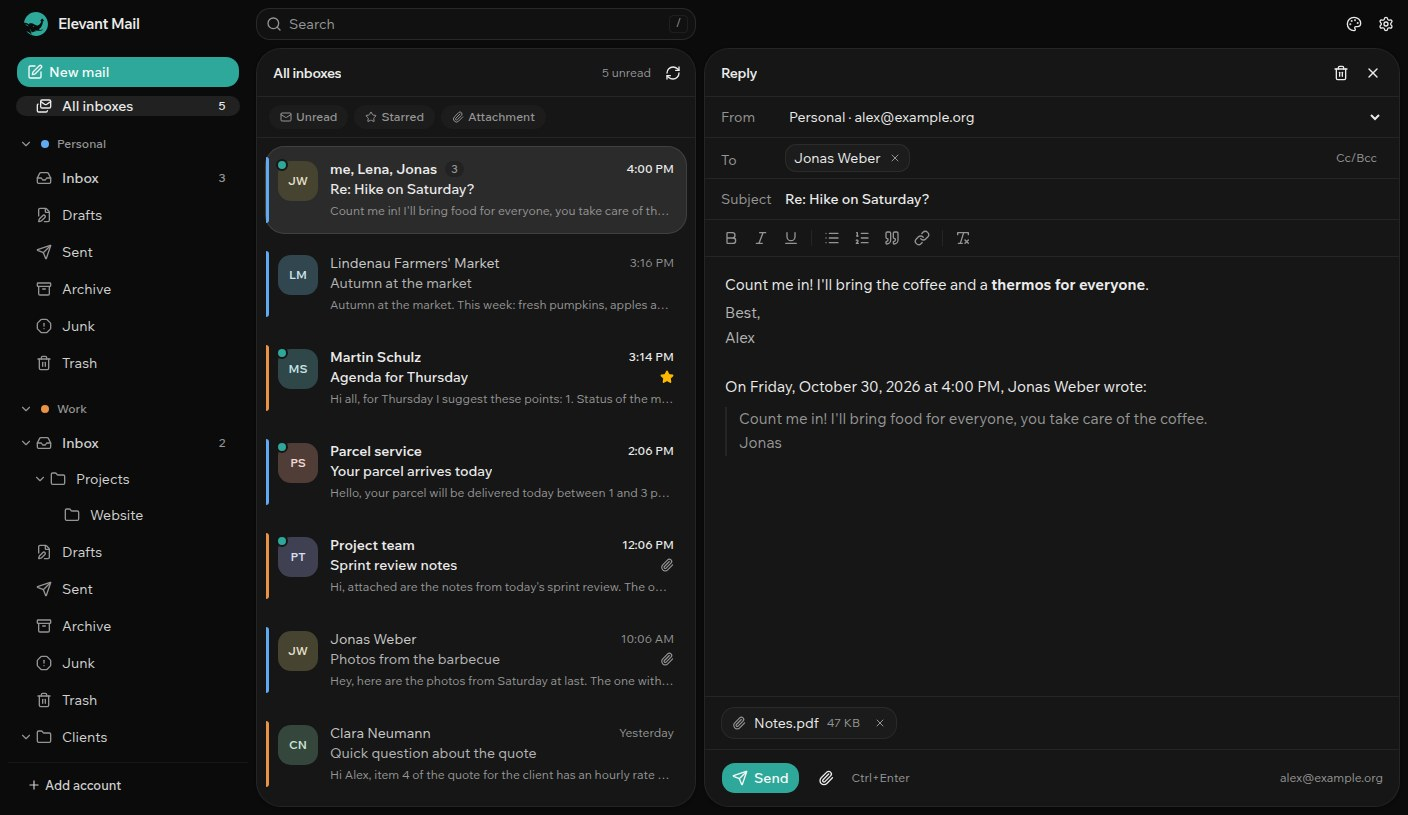
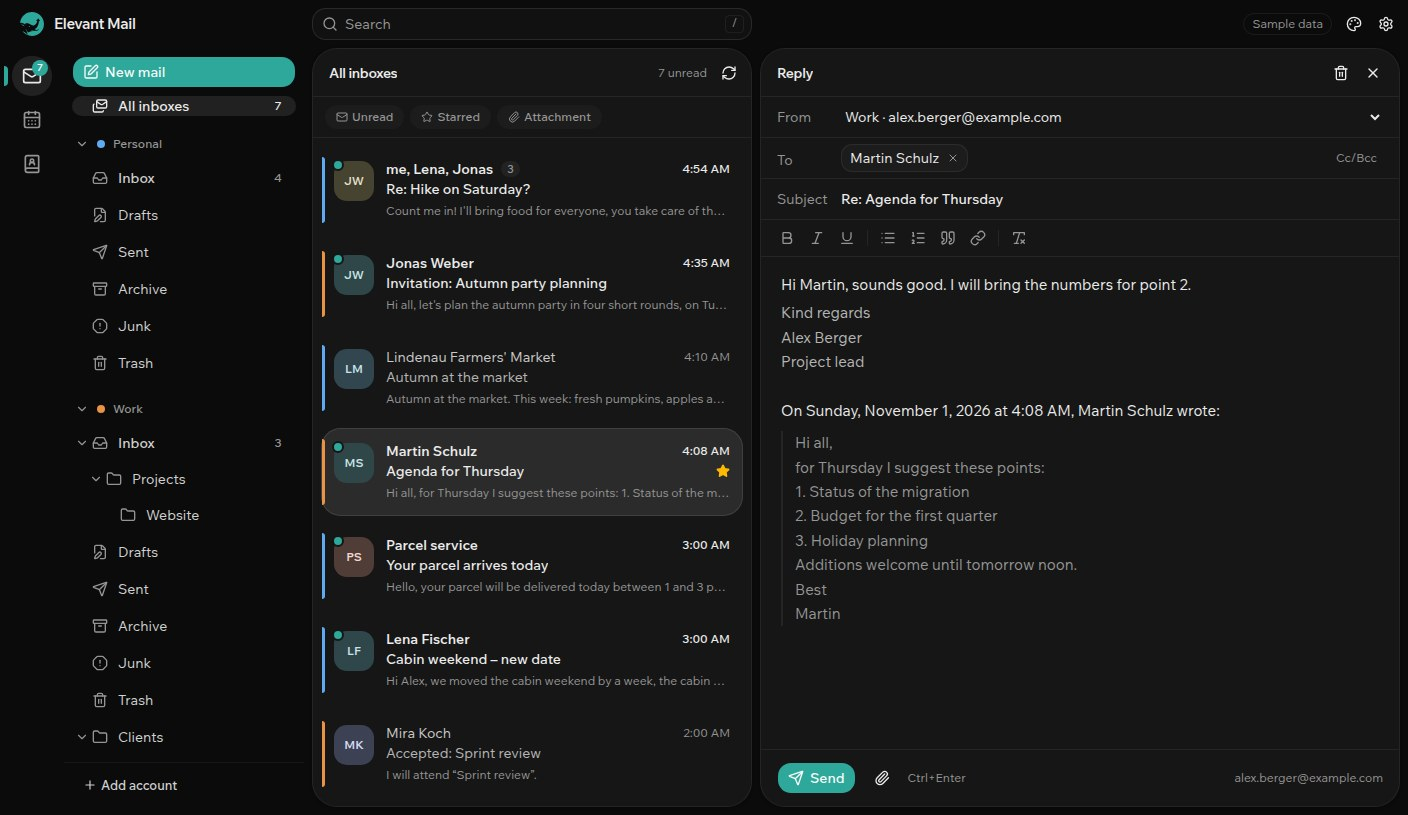
Update the README and screenshots for 0.6
The README describes calendar and contacts, the tray, moving accounts,
dragging mail and the MCP server for AI agents with its permissions,
with a section on connecting an agent; the roadmap lists 0.5 and 0.6
and names the optional AI help as next. New screenshots show the
invitation card, the calendar's week view and the left area bar.

diff --git a/README.md b/README.md
@@ -4,19 +4,20 @@
 [![License: GPL-3.0-or-later](https://img.shields.io/badge/license-GPL--3.0--or--later-blue)](LICENSE)
 
 A fast, private mail client for Linux and Windows. All your IMAP accounts in one window, with a
-unified inbox and a calm interface, for reading and writing mail.
+unified inbox and a calm interface, for reading and writing mail, with your calendars and
+contacts beside it.
 
 - **Free and open source.** No paywall, no subscription, no account with us.
 - **Private.** No cloud, no telemetry. The app talks to your mail servers and nothing else.
 - **Local first.** Your mail is cached on your computer, opens instantly and stays readable
   offline.
 
-![Elevant Mail with a conversation in the unified inbox of two accounts](docs/screenshots/main.jpg)
+![Elevant Mail with an invitation open in the unified inbox of two accounts](docs/screenshots/main.jpg)
 
-> **Status: v0.4, reads and sends.** Elevant Mail reads, searches, organizes and writes mail for
-> several accounts: conversations, filters, archiving with undo, replies and forwards with
-> formatting, drafts, attachments and signatures. It is early software: please keep another mail
-> client around for now, and
+> **Status: v0.6, mail, calendar and contacts.** Elevant Mail reads, searches, organizes and
+> writes mail for several accounts, and keeps your calendars and address books in step over
+> CalDAV, CardDAV and Microsoft 365. It is early software: please keep another mail client around
+> for now, and
 > [tell us](https://github.com/Elevant-Development/elevant-mail/issues) what breaks.
 
 ## Features
@@ -51,13 +52,32 @@ unified inbox and a calm interface, for reading and writing mail.
 - **Attachments:** open or save them. Files that could run programs are only saved, never opened
   directly.
 - **Read and starred** state syncs back to the server
+- **Calendar** with day, week and month view: create, change and delete events, all-day and
+  repeating ones too, with reminders and a color per calendar. Your calendars stay in step both
+  ways over CalDAV (Mailcow/SOGo, Nextcloud, Posteo, mailbox.org, iCloud and others) and with
+  Microsoft 365 and Outlook.com.
+- **Invitations** show in the mail with what else is on at that time; accept, maybe or decline
+  in one click, and accepted events land in your calendar
+- **Contacts** from your address books (CardDAV, Microsoft 365, Outlook.com), searchable, editable
+  and offered first when you write a recipient
+- **Keeps running in the tray** after you close the window, so new mail and reminders still
+  arrive; it can also start at login
+- **For AI agents (MCP):** tools like Claude Code can search and read the accounts you share with
+  them, and only do more (mark, move, trash, write drafts) where you allow it. Off until you
+  switch it on; see [AI agents](#ai-agents-mcp).
+- **Drag mail onto folders,** right-click a mail for its actions, and drag the columns to the
+  width you like
+- **Move your accounts** to another computer with an export file, passwords only when you
+  choose, encrypted with a passphrase
 - **Keyboard control** for the whole mail view (see [Keyboard shortcuts](#keyboard-shortcuts))
 - **Dark and light mode,** six accent colors, two densities, several bundled fonts
 - **Readable newsletters in dark mode:** designed mail sits on a light page, simple mail follows
   the dark theme, and you can switch per mail
 - **English and German.** The app follows your system language; more languages are welcome.
 
-![Writing a reply with formatting, signature and an attachment](docs/screenshots/compose.jpg)
+![The calendar's week view with the calendars of two accounts](docs/screenshots/calendar.jpg)
+
+![Writing a reply with the account's signature and the quoted mail](docs/screenshots/compose.jpg)
 
 | Designed newsletter with images allowed        | Light mode with attachments               |
 | ---------------------------------------------- | ----------------------------------------- |
@@ -135,6 +155,26 @@ one); notifications; and under
 **Reading** which accounts the unified inbox brings together, which inbox opens at start, when an
 opened mail counts as read and whose images always load.
 
+## AI agents (MCP)
+
+Elevant Mail can let AI agents such as Claude Code work with your mail over the
+[Model Context Protocol](https://modelcontextprotocol.io). The agent starts the app's program as
+its server (`elevant-mail mcp`); it reads the mail on your computer, gets no passwords and needs
+no network. The app does not have to be open, but changes an agent makes reach your mail server
+only while it runs.
+
+1. Open **Settings → AI agents** and switch on **Access for AI agents**.
+2. Per account, switch on **Read** and, if you like, what else agents may do: **Mark**, **Move,
+   archive**, **Move to trash**, **Write drafts**. Agents never send mail and never delete it for
+   good; drafts wait in your drafts folder for you to send.
+3. Copy the command shown there into a terminal, for Claude Code for example
+   `claude mcp add elevant-mail -- /path/to/elevant-mail mcp`. Other MCP clients get the same as
+   JSON.
+
+The page logs every access, refused ones too. Mail is written by strangers, so every result tells
+the agent that its content is data, not instructions; still, give agents only the rights you
+need.
+
 ## Searching
 
 Type into the search field at the top; every word has to match, as a word or the start of one
@@ -172,6 +212,7 @@ the app keeps offline.
 | `/`                  | Search. `Enter` or `↓` jumps to the first result, `Esc` clears.       |
 | `F6`                 | Jump between search, folders, list and message (`Shift+F6` goes back) |
 | `c`                  | Write a new mail                                                      |
+| `Ctrl+1`, `2`, `3`   | Mail, calendar, contacts                                              |
 | `r`, `a`, `f`        | Reply, reply to all, forward                                          |
 | `Ctrl+Enter`         | Send (while writing)                                                  |
 | `Ctrl+K`             | Add a link (while writing)                                            |
@@ -185,11 +226,14 @@ or a dialog is open.
 
 - **No telemetry, no analytics, no cloud.** Elevant Mail has no server of its own. It connects to
   your mail servers, to Microsoft when you sign in with Microsoft, to image hosts only when you
-  load a mail's images, and once a day to GitHub's API to look for a new version (one request
+  load a mail's images, to the calendar and address book servers of your accounts, and once a
+  day to GitHub's API to look for a new version (one request
   without anything about you; can be switched off).
 - **Nothing from the web.** Fonts, icons and styles are part of the app; no CDNs, no avatar
   services. The build is checked for this on every change.
 - **Passwords and sign-in tokens** live in your system keyring, never in files or logs.
+- **AI agents only by your leave:** the MCP server is off until you switch it on, reaches only
+  the accounts and rights you choose, runs on your computer only and logs every access.
 - **Encrypted connections only,** with certificates checked against your system's trust store.
 - **Mail is untrusted.** HTML is cleaned before display and shown in a sandbox where scripts
   never run. External images are blocked, so senders cannot see when you open a mail, until you
@@ -211,18 +255,15 @@ Found a security problem? Please report it privately, see [SECURITY.md](SECURITY
   filters and search on the server; account and reading settings; large folders
 - v0.4: sending with password or sign-in via Microsoft; reply, reply all and forward with
   formatting; drafts in the server's drafts folder; attachments; signatures
+- v0.5: drag mail onto folders, columns as wide as you like, Microsoft accounts on Windows
+  fixed; moving accounts to another computer (0.4.1)
+- v0.6: calendar and contacts over CalDAV, CardDAV and Microsoft 365, invitations, reminders;
+  keeps running in the tray; MCP server for AI agents with permissions per account
 
-**Next: MCP server for AI agents**
+**Next: optional AI help**
 
-- Optional and off by default, local only, read-only to start, so tools like Claude Code can
-  search your mail without their own access to your accounts
-
-**Then**
-
-- **Optional AI help:** summaries and reply drafts with a provider you choose, including local
-  models; nothing active without setup
-- **Keep running in the tray,** so notifications arrive with the window closed
-- **Calendar:** later, as its own area
+- Summaries and reply drafts with a provider you choose, including local models; nothing active
+  without setup
 
 The [project brief](docs/project-brief.md) has the details, the architecture and the decisions
 behind them.
